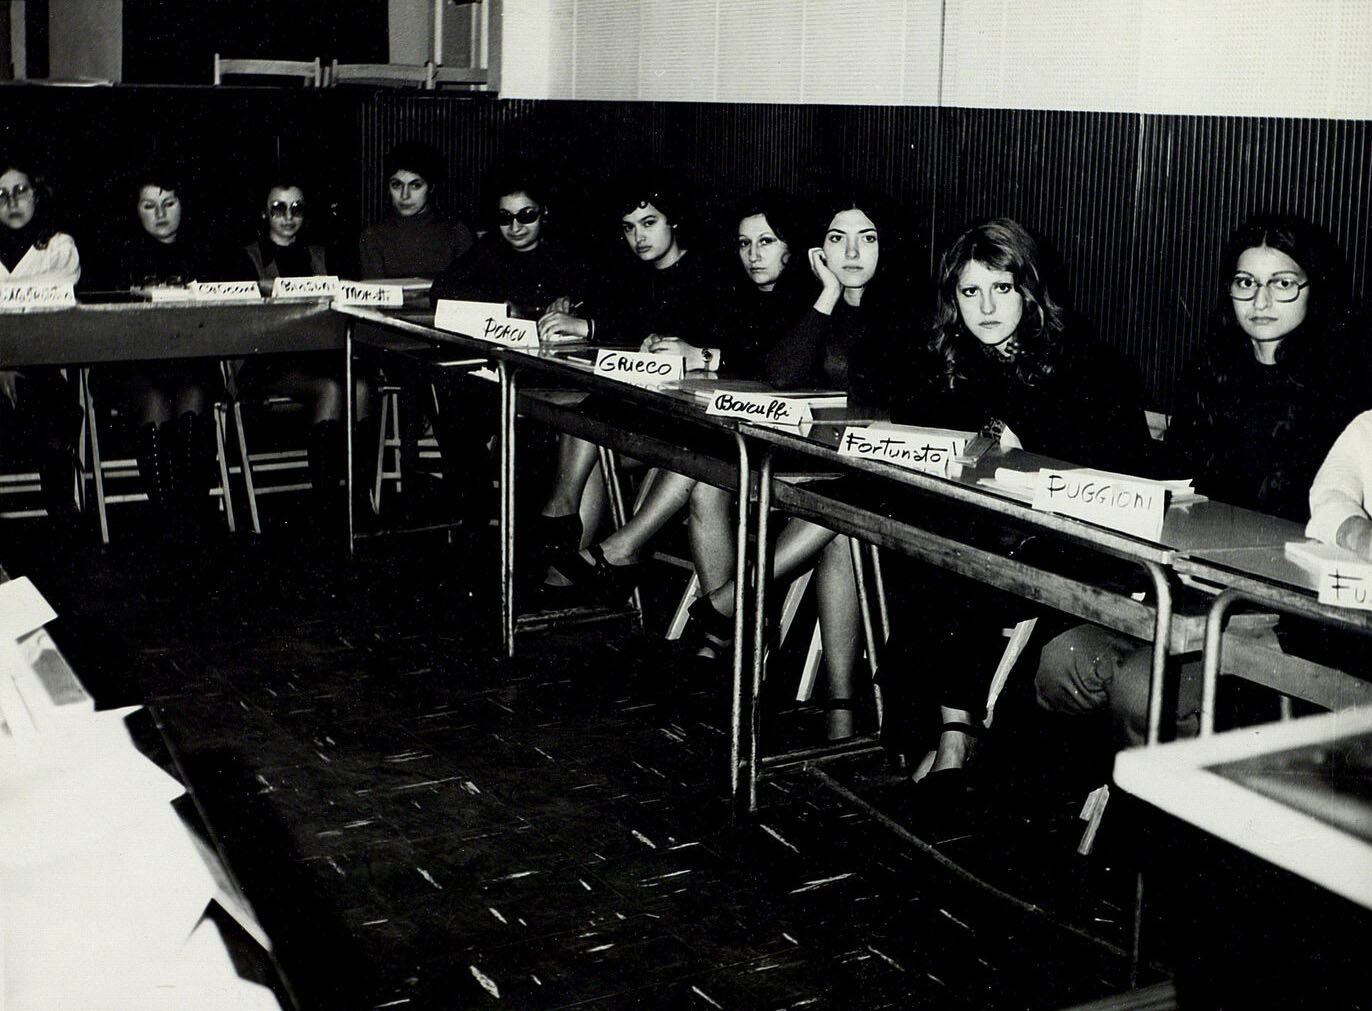
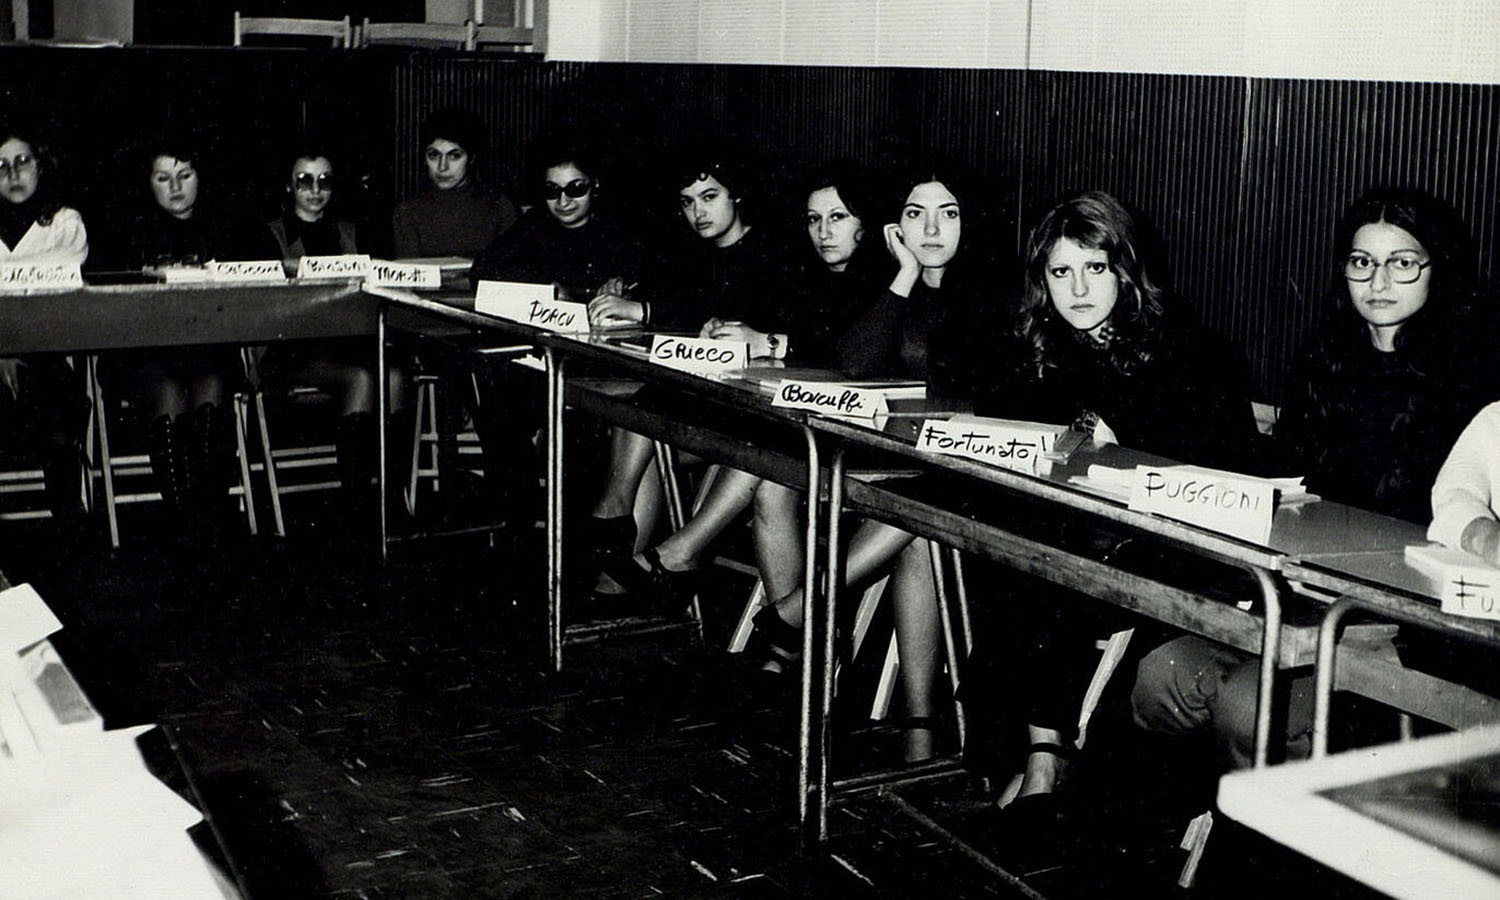
aggiunto: Donne e sindacato negli anni Settanta

diff --git a/_scenari/anni-settanta/donne-e-sindacato-negli-anni-settanta.md b/_scenari/anni-settanta/donne-e-sindacato-negli-anni-settanta.md
@@ -1,0 +1,26 @@
+---
+title: "Donne e sindacato negli anni Settanta: il Coordinamento Delegate della FLM"
+preview: Nella prima metà degli anni Settanta, con l’affacciarsi sulle piazze del movimento neo-femminista, anche nelle fabbriche metalmeccaniche le operaie iniziarono ad interrogarsi sulla propria condizione di lavoratrici e di donne.
+img: images/scenari/donne-e-sindacato-negli-anni-settanta.jpg
+permalink: /scenari/anni-settanta/donne-e-sindacato-negli-anni-settanta
+layout: article
+---
+
+Nella prima metà degli anni Settanta, con l’affacciarsi sulle piazze del movimento neo-femminista, anche nelle fabbriche metalmeccaniche le operaie iniziarono ad interrogarsi sulla propria condizione di lavoratrici e di donne. Ad accrescere il loro peso nel dibattito di un sindacato ancora prettamente maschile, come la Federazione Lavoratori Metalmeccanici (FLM), furono le battaglie fuori dalla fabbrica (divorzio, diritto di famiglia, aborto) e quelle interne alla fabbrica (conciliazione tra tempi di vita e tempi di lavoro, diritto ai permessi familiari e alla maternità pagata, salute e sicurezza). Anche la pratica delle 150 ore e delle inchieste di fabbrica, acquisirono uno sguardo di genere nel trapasso tra anni Sessanta e Settanta. 
+
+Su impulso di alcune sindacaliste nel 1976 nacque il Coordinamento Nazionale delle Delegate FLM. Dopo una prima discussione nell’aprile del 1976, la proposta di un Coordinamento venne riproposta in un corso di formazione per delegate a Fiesole (Firenze), a cui partecipano 80 lavoratrici provenienti da 25 provincie. A seguito di questo corso, alcune delle partecipanti avranno un incontro specifico con la Segreteria della FLM, dando così avvio ad un coordinamento, che sarà poi formalmente sancito nel corso della IV Conferenza Nazionale dei Delegati FLM a Firenze nel marzo del 1977. 
+
+Tra il 1976 e il 1977 il Coordinamento Nazionale elaborò un documento come contributo unitario delle delegate al dibattito congressuale delle tre fondatrici della FLM (FIOM_CGIL, FIM-CISL, UILM_UIL) e svolse un’analisi delle piattaforme aziendali in cui era presente un contenuto rivendicativo che riguardava in particolar modo le lavoratrici. Il tema della maternità e dell’organizzazione del lavoro, ad esempio, sarà ripreso nel marzo 1978 sul quaderno monografico “Donna tra casa e lavoro”, allegato alla rivista della FLM “I Consigli”. 
+
+Il 2 dicembre 1977, nel corso della manifestazione nazionale dei metalmeccanici a Roma, venne promosso dal Coordinamento Nazionale delle Delegate un corteo di sole donne, al quale aderirono UDI e collettivi femministi, con una partecipazione di circa 10.000 lavoratrici. Nel 1978, si tennero corsi di formazione specifici per delegate presso la Scuola sindacale di Ariccia, che affrontarono i temi della specificità femminile nella contrattazione sindacale e della partecipazione delle donne al sindacato; a Firenze si svolse inoltre un “Convegno sull’esperienza delle 150 ore per le donne”. Nel giugno del 1978, durante il II Convegno di Organizzazione della FLM venne approvata una mozione sulle forme organizzative delle donne nel sindacato. 
+
+Il Coordinamento Nazionale delle Delegate partecipò attivamente anche al dibattito per l’elaborazione della piattaforma nazionale per il rinnovo del CCNL del 1979 attraverso specifici punti: applicazione ed estensione della legge di parità, gestione delle contribuzioni industriali nel territorio, contrarietà all’inserimento del part-time nel contratto nazionale. Il ruolo delle delegate e del loro Coordinamento nazionale continuerà anche nei primi anni Ottanta, in seno alla FLM e nei luoghi di lavoro, contribuendo a rendere il sindacato unitario dei metalmeccanici più aperto e attento alle questioni di genere, in sintonia con quanto avveniva nelle piazze e nelle strade del paese e formando una serie di giovani delegate e attiviste che innerveranno la struttura sindacale negli anni a venire.
+
+
+---
+
+### Bibliografia
+- E. Guerra, *Una nuova presenza delle donne tra femminismo e sindacato. La vicenda della CGIL*, in G. Chianese (a cura di), *Mondi femminili in cento anni di sindacato*, Ediesse, Roma, pp. 217-265.
+- L.Varlese, *Il Coordinamento nazionale donne FLM (1976-1984)* in G. Cereseto, A. Frisone, L. Varlese, *Non è un gioco da ragazze. Femminismo e sindacato: i Coordinamenti donne FLM*, Ediesse, Roma, 2010, pp. 21-178.
+- M. Bracke, *La nuova politica delle donne. Il femminismo in Italia, 1968-1983*, Edizioni di Storia e Letteratura, Roma, 2019, pp.171-2016, pp. 171-216.
+- A.Frisone, *Quando le lavoratrici si ripresero la cultura: femminismo sindacale e corsi 150 ore delle donne a Reggio Emilia*, Editrice Socialmente, Bologna, 2014.
